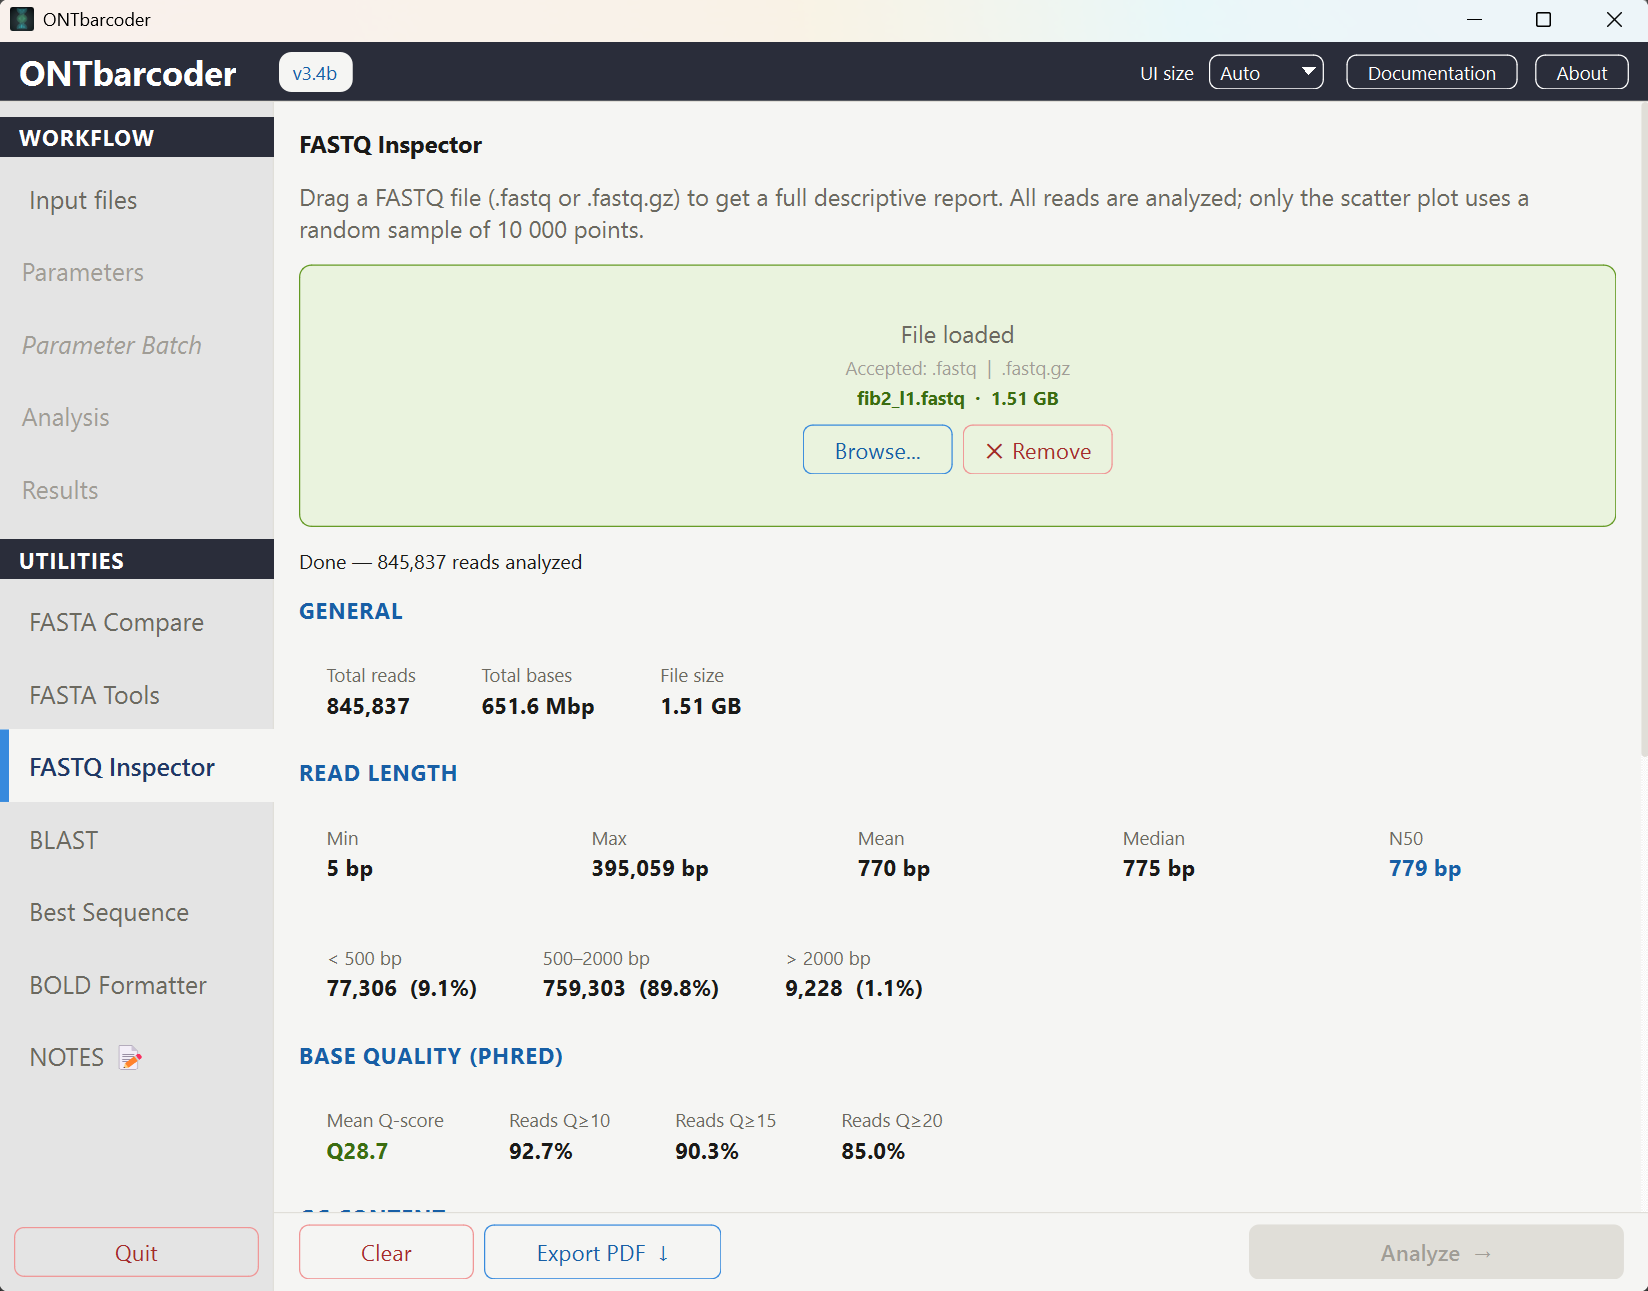
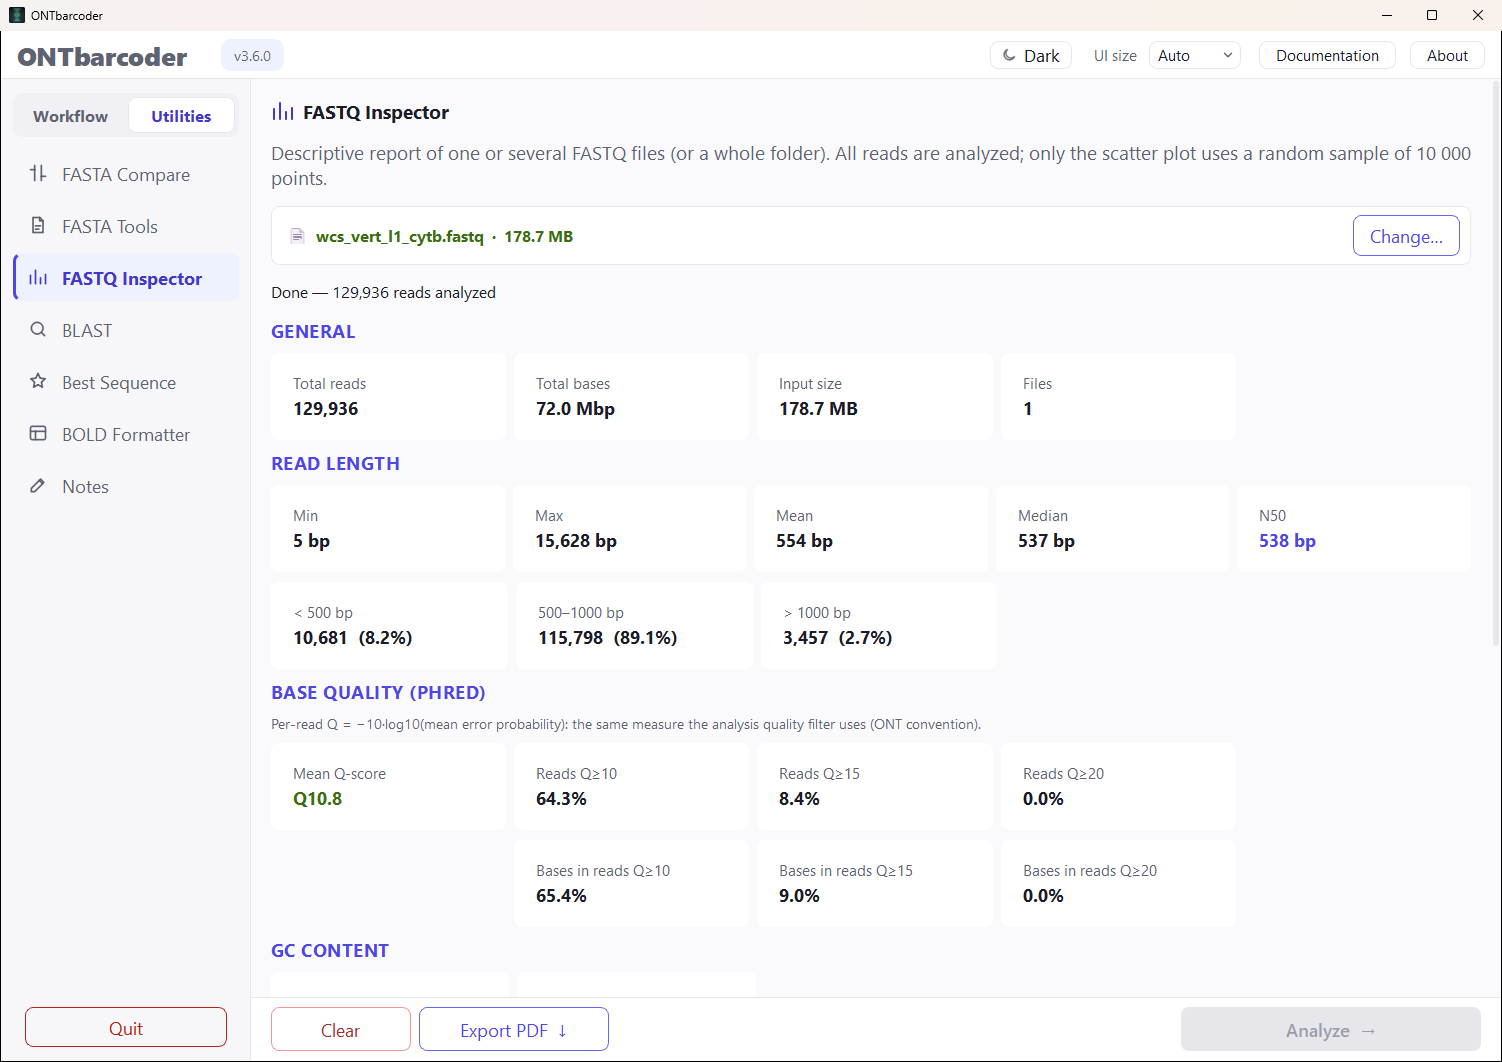
Refresh manual and README screenshots for the 3.6.0 UI
Recaptured from real WCS cytb runs (analysis, real-time, utilities);
manual text now describes the Workflow/Utilities tabs and theme toggle;
README gains a dark-theme screenshot.

diff --git a/guide/MANUAL.html b/guide/MANUAL.html
@@ -281,9 +281,11 @@ version</b> or <b>Remind me later</b>; untick <i>Check for updates at start-up</
 
 <!-- ════════════════════════════════════════════════════ -->
 <h2 id="workflow">3. Workflow overview</h2>
-<p>The left sidebar of the application is organized into a <b>Workflow</b> section (the
-analysis pipeline) and a <b>Utilities</b> section (standalone tools). A typical run moves
-through the workflow panels in order:</p>
+<p>The left sidebar of the application has two tabs: <b>Workflow</b> (the analysis
+pipeline) and <b>Utilities</b> (standalone tools). The tab follows whichever panel is open,
+and every item carries a monochrome icon that changes colour with its state. The
+<b>Dark</b>/<b>Light</b> button in the top bar switches the colour theme; the choice is
+remembered between sessions. A typical run moves through the workflow panels in order:</p>
 
 <div class="phase-flow">
   <div class="step"><div class="n">PANEL 1</div><div class="t">Input files</div>
@@ -298,7 +300,7 @@ through the workflow panels in order:</p>
 <p>The sidebar numbers these required steps (<b>1 Input files → 2 Parameters → 3 Analysis →
 4 Results</b>) and marks each completed one with a green <b>✓</b>. Steps that are not yet
 available are greyed out; hovering one explains why (load the FASTQ and the demultiplexing
-file first). <b>Parameter Sweep</b> and <b>📈 RT Charts</b> are unnumbered: the first is
+file first). <b>Parameter Sweep</b> and <b>RT Charts</b> are unnumbered: the first is
 optional and the second only appears in Real-Time mode. Utility panels with long
 explanations keep them in a collapsed <b>ℹ How it works</b> link, one click away.</p>
 
@@ -403,7 +405,7 @@ demultiplexing CSV. The full pipeline runs once.</p>
 <p>For analysis <i>during</i> sequencing. The program processes FASTQ files as they are
 generated and updates provisional barcodes cycle by cycle, so you can monitor how many
 specimens have been recovered and stop the run once coverage is sufficient. A live chart
-panel (<b>📈 RT Charts</b>) appears in this mode.</p>
+panel (<b>RT Charts</b>) appears in this mode.</p>
 
 <figure class="">
   <img src="images/mode-realtime.png" alt="Real-Time mode setup">
@@ -441,7 +443,7 @@ and 2a run each cycle.
 
 <figure class="">
   <img src="images/panel-rtcharts.png" alt="RT Charts panel">
-  <figcaption><b>Figure 4.</b> The <b>📈 RT Charts</b> panel: recovered barcodes plotted
+  <figcaption><b>Figure 4.</b> The <b>RT Charts</b> panel: recovered barcodes plotted
   against reads/cycles during a live sequencing run.</figcaption>
 </figure>
 <p>Three buttons in the RT Charts header show or hide extra views; each button reads
@@ -1836,7 +1838,7 @@ for the taxonomy columns (<code>Phylum</code> … <code>Species</code>).</p>
 <h2 id="util-notes">16. Utility — Notes</h2>
 <p>A lightweight, file-based Markdown notebook built into the app — a place to keep
 run-specific observations, protocols or lab notes without leaving ONTbarcoder. Open it
-from the <b>NOTES 📝</b> item at the bottom of the sidebar.</p>
+from the <b>Notes</b> item in the <b>Utilities</b> tab of the sidebar.</p>
 
 <figure class="">
   <img src="images/util-notes.png" alt="Notes utility">

diff --git a/README.md b/README.md
@@ -21,6 +21,10 @@ original.
 | ![Conventional mode](guide/images/mode-conventional.png) | ![Real-time mode](guide/images/mode-realtime.png) |
 | Single completed FASTQ file | FASTQ files generated live during sequencing |
 
+**Light and dark themes** (toggle in the top bar), with the sidebar split into *Workflow* and *Utilities* tabs:
+
+![Dark theme](guide/images/theme-dark.png)
+
 ## Releases (ready-to-run executables)
 
 Prebuilt bundles are published on the **[Releases](../../releases)** page — no
